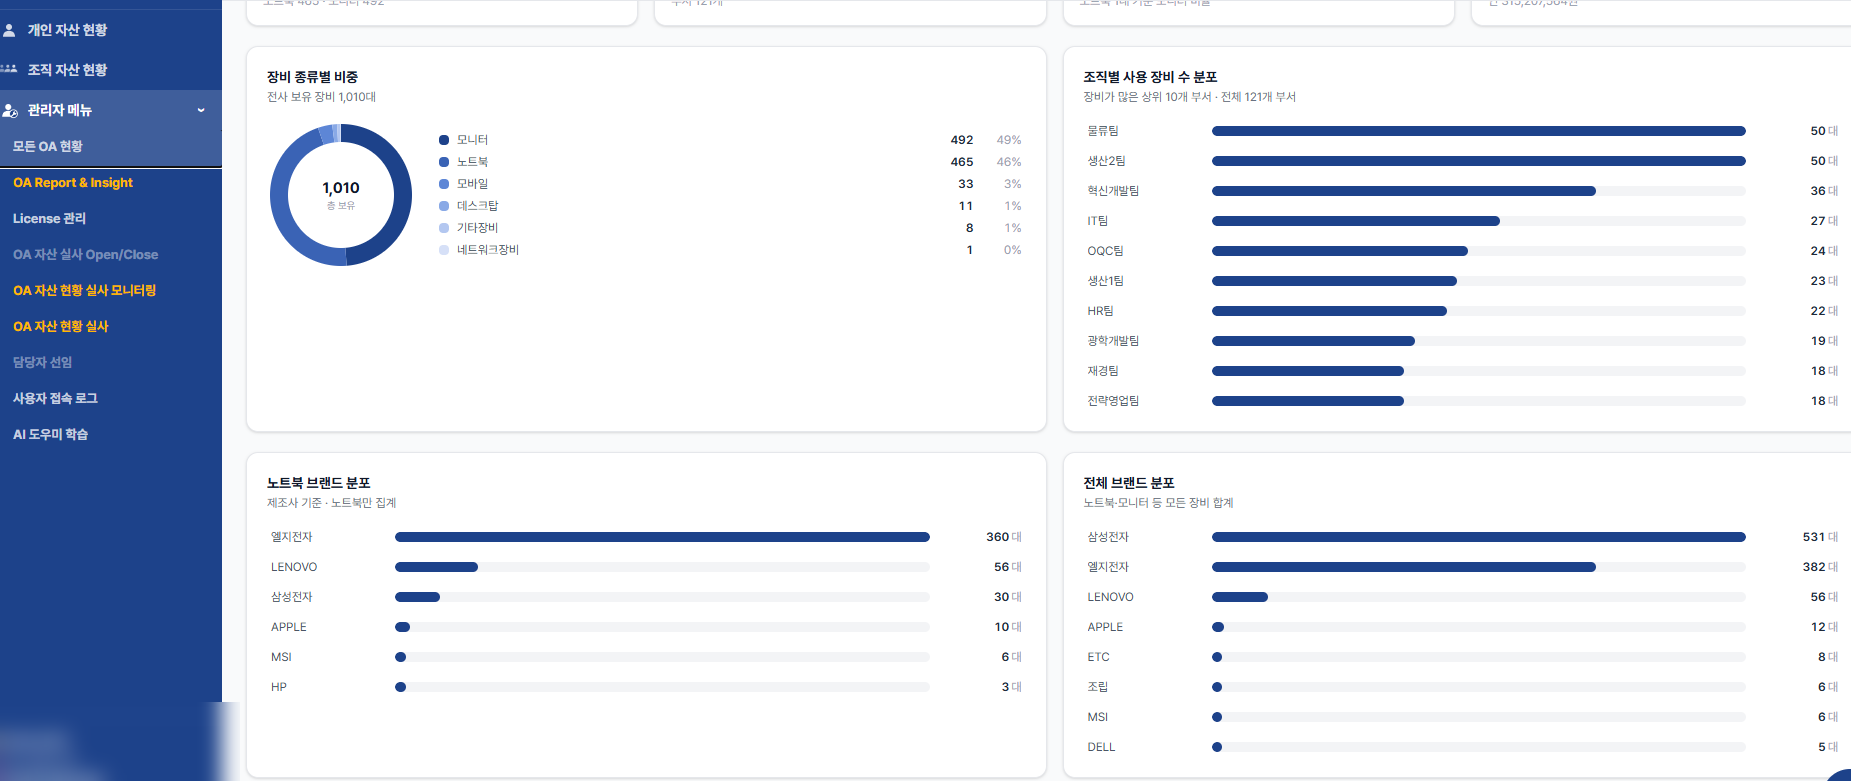
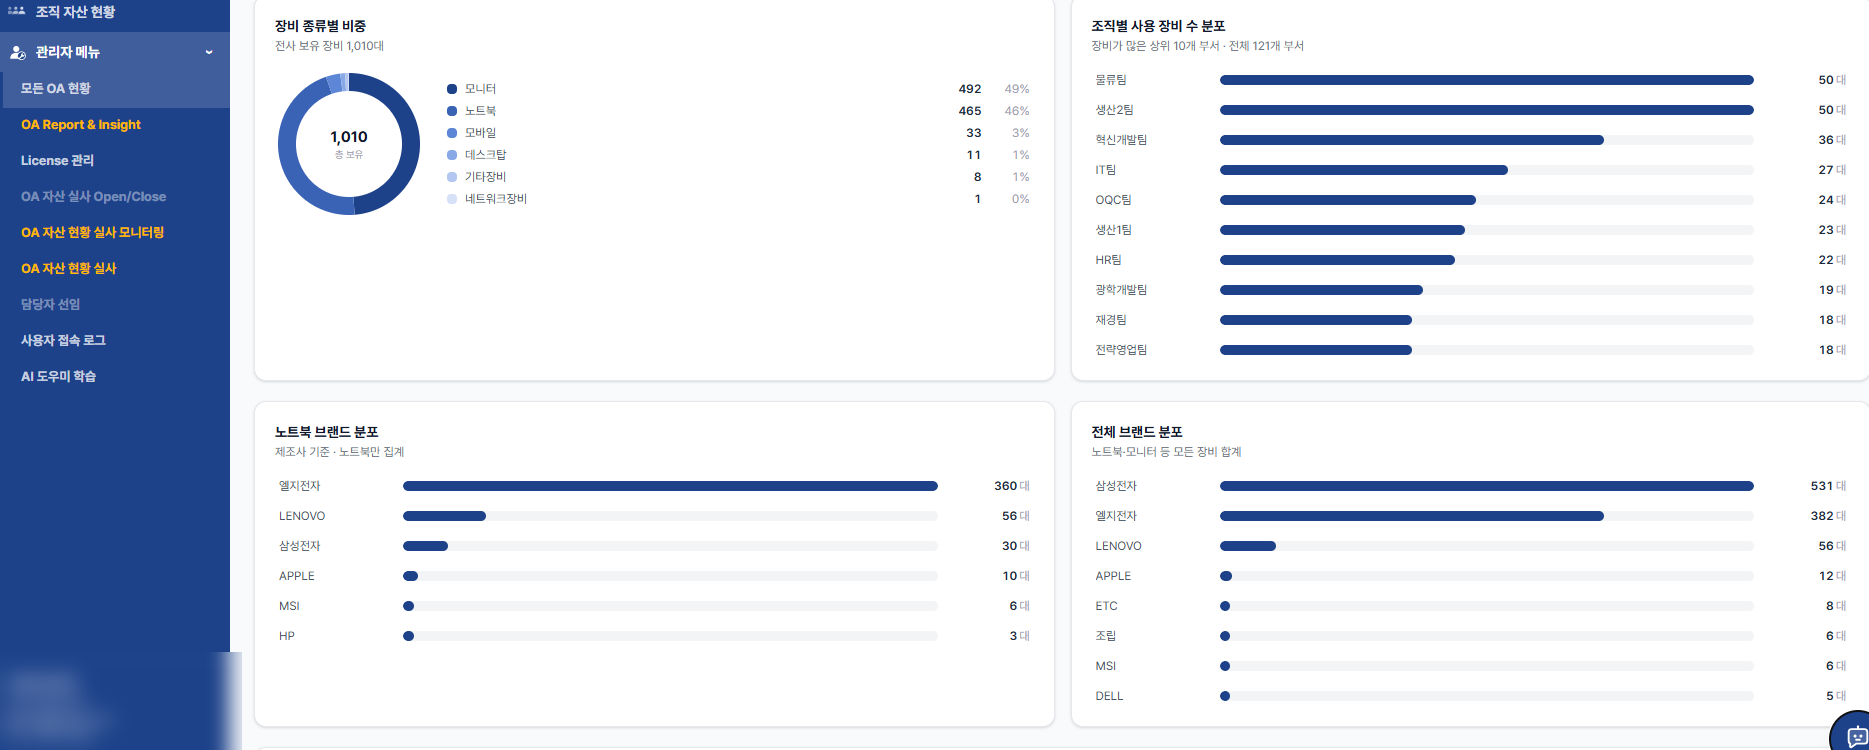
Add chatbot and cost-insight screenshots
- AI 도우미 채팅창 캡처를 답변 예시 바로 아래에 배치
- OA Report & Insight(비용 구조·1인당 비용) 캡처 추가
- 모든 OA 현황 캡처를 사이드바까지 보이는 판으로 교체(연락처는 흐리게)

diff --git a/README.md b/README.md
@@ -58,6 +58,10 @@ Q. 우리 회사 창립기념일은 언제인가요?
 A. 문서에 없습니다.
 ```
 
+<img src="docs/images/chatbot.png" alt="AI 도우미 채팅창" width="330">
+
+사내 공지 PDF를 올린 뒤 물어보면 그 문서를 근거로 답하고, 근거가 된 자료 이름을 출처로 함께 보여줍니다. 어떤 화면에서든 오른쪽 아래 버튼으로 열리며, 페이지는 그대로 둔 채 대화만 스크롤됩니다.
+
 ## 화면
 
 <table>
@@ -86,6 +90,12 @@ A. 문서에 없습니다.
 전사 1,010대를 종류·부서·브랜드로 나눠 봅니다. 막대에 마우스를 올리면 대수·비율·월 렌탈료가 함께 뜨고, 아래 표에서는 자산번호·사용자·부서로 검색해 개별 장비까지 찾아갑니다.
 
 ![모든 OA 현황 화면](docs/images/oa-overview.png)
+
+### OA Report & Insight — 돈이 보이는 화면
+
+장비 종류별로 대수와 월 비용이 얼마나 어긋나는지(노트북 465대가 전체 비용의 83%), 부서별 1인당 비용이 유난히 높은 곳은 어디인지 보여줍니다. 위쪽에는 퇴사자 명의·계약종료 잔존 장비를 추려 **회수하면 얼마가 절감되는지**를 먼저 띄웁니다.
+
+![OA Report & Insight 화면](docs/images/oa-report.png)
 
 ### License 관리 — 구독 수량 대비 사용률
 

diff --git a/docs/images/README.md b/docs/images/README.md
@@ -6,11 +6,13 @@ README에서 참조하는 이미지입니다.
 |---|---|
 | `sidebar.png` | 역할별 사이드바 메뉴 |
 | `audit-mobile.jpg` | 휴대폰 바코드 실사 |
+| `chatbot.png` | AI 도우미 채팅창 |
 | `oa-overview.png` | 모든 OA 현황 (종류·부서·브랜드 분포) |
+| `oa-report.png` | OA Report & Insight (비용 구조·1인당 비용) |
 | `license.png` | License 관리 |
 | `rag-manage.png` | AI 도우미 학습 자료 관리 |
 | `access-log.png` | 사용자 접속 로그 |
 
-아직 없는 화면: OA Report & Insight, 실사 모니터링, AI 도우미 채팅창.
+아직 없는 화면: OA 자산 현황 실사 모니터링.
 
 캡처 요령: 너비 1280px 이상, 실명·이메일·전화번호 등 개인정보는 가린 뒤 올립니다.
